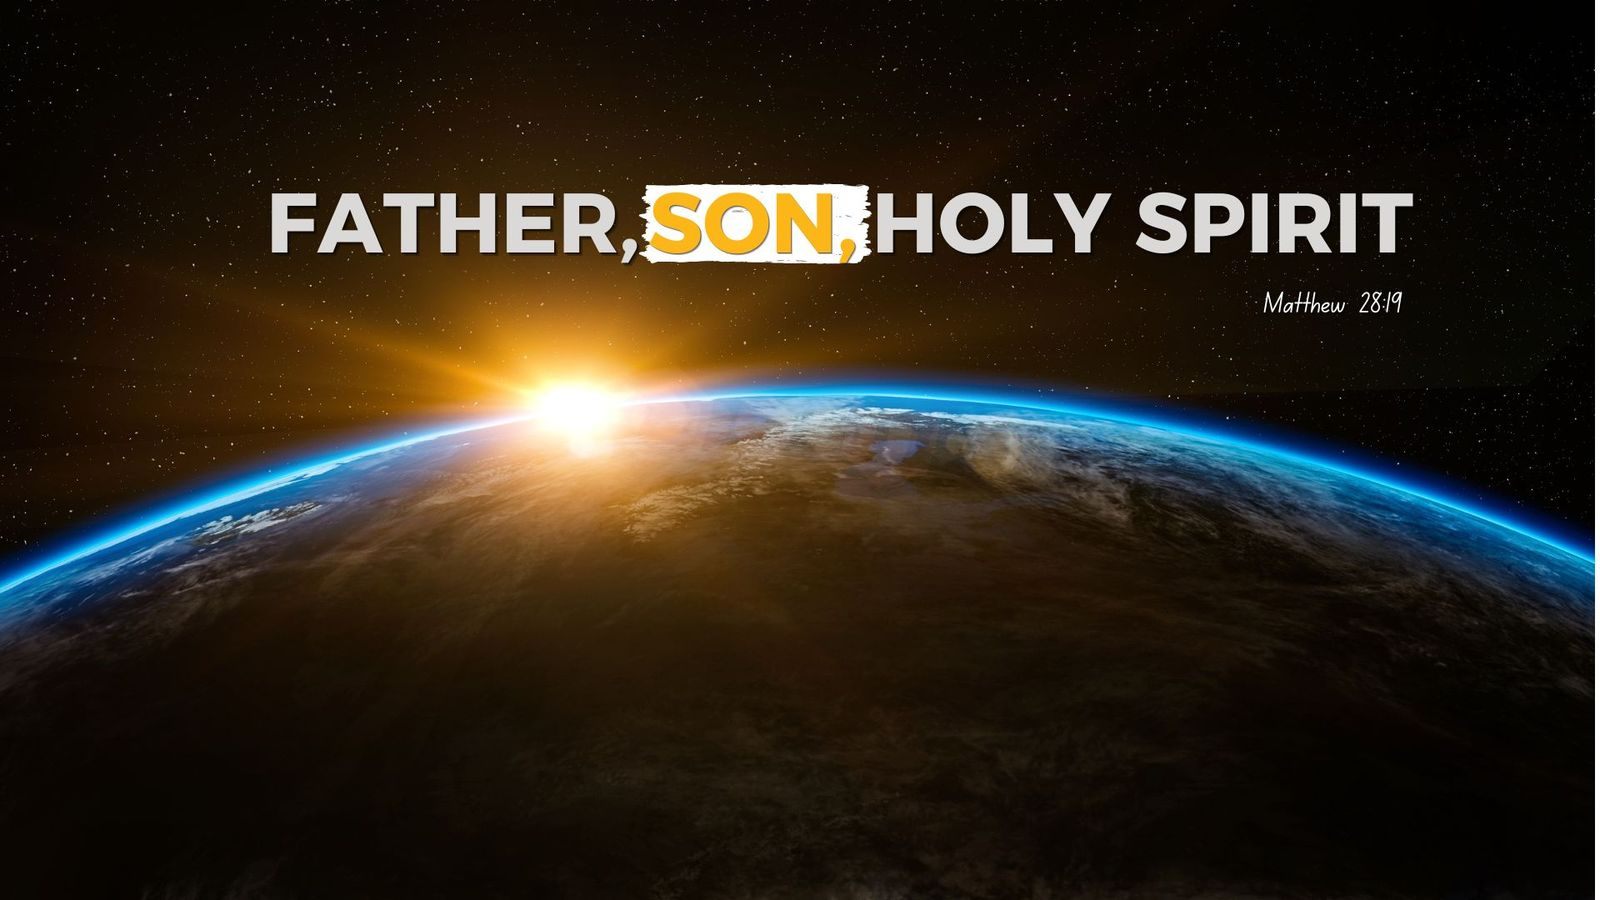
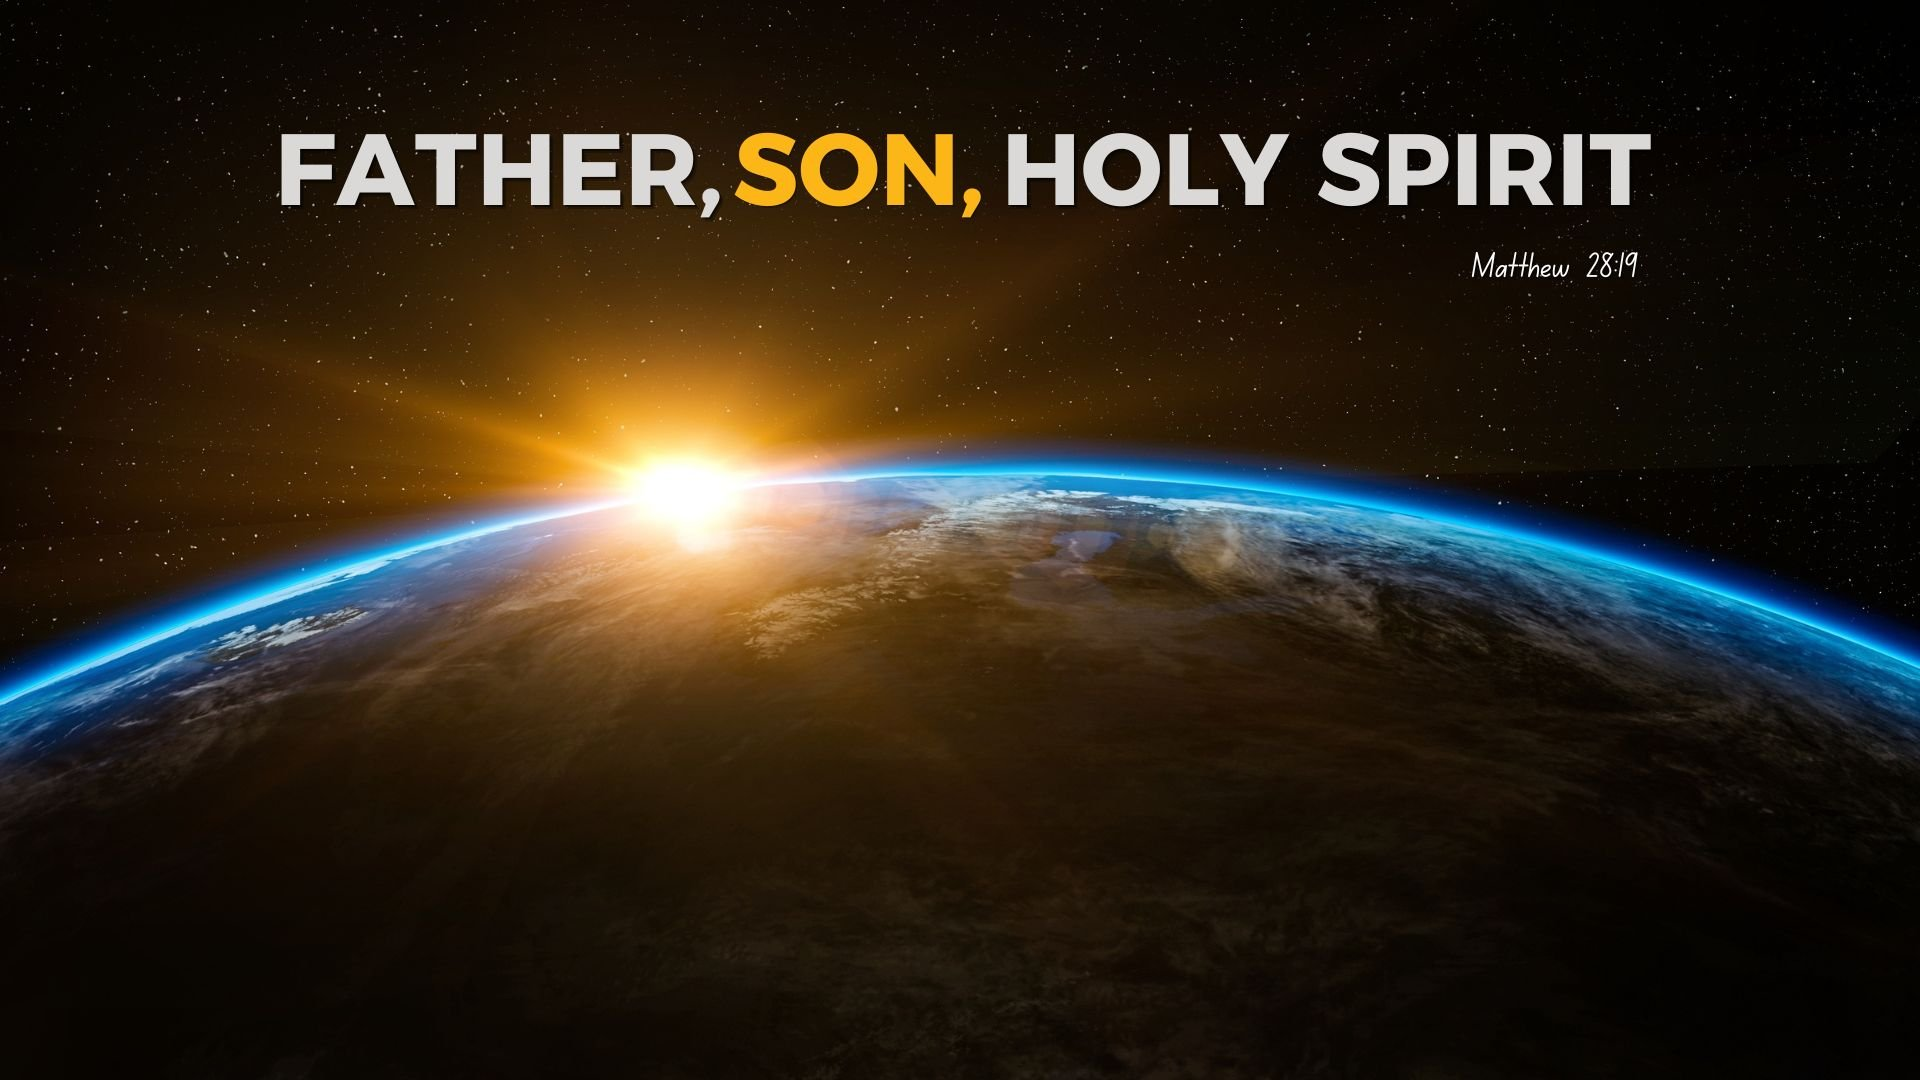
image

diff --git a/index.html b/index.html
@@ -484,7 +484,7 @@ header{background:rgba(8,12,16,.95);border-bottom:1px solid var(--border);positi
        alt="Father, Son, Holy Spirit — ENJC Worship"
        loading="eager"
        fetchpriority="high"
-       style="position:absolute;inset:0;width:100%;height:100%;object-fit:cover;object-position:center 45%;z-index:0">
+       style="position:absolute;inset:0;width:100%;height:100%;object-fit:cover;object-position:center top;z-index:0">
 
   <div style="position:absolute;inset:0;z-index:1;background:linear-gradient(to bottom,rgba(5,8,16,.1) 0%,rgba(5,8,16,.2) 35%,rgba(5,8,16,.72) 60%,rgba(5,8,16,.94) 80%,rgba(5,8,16,1) 100%)"></div>
 
@@ -522,11 +522,11 @@ header{background:rgba(8,12,16,.95);border-bottom:1px solid var(--border);positi
 
   <!-- Full image — no cropping, full width, aspect ratio preserved -->
   <div style="width:100%;position:relative;overflow:hidden;line-height:0">
-    <img src="images/home/hero-desktop.jpg"
+    <img src="images/home/hero-mobile.jpg"
          alt="Father, Son, Holy Spirit — ENJC Worship"
          loading="eager"
          fetchpriority="high"
-         style="width:100%;height:auto;display:block;object-fit:contain">
+         style="width:100%;height:auto;display:block">
     <!-- Subtle bottom fade so image blends into content -->
     <div style="position:absolute;bottom:0;left:0;right:0;height:60px;background:linear-gradient(transparent,#050810)"></div>
   </div>
